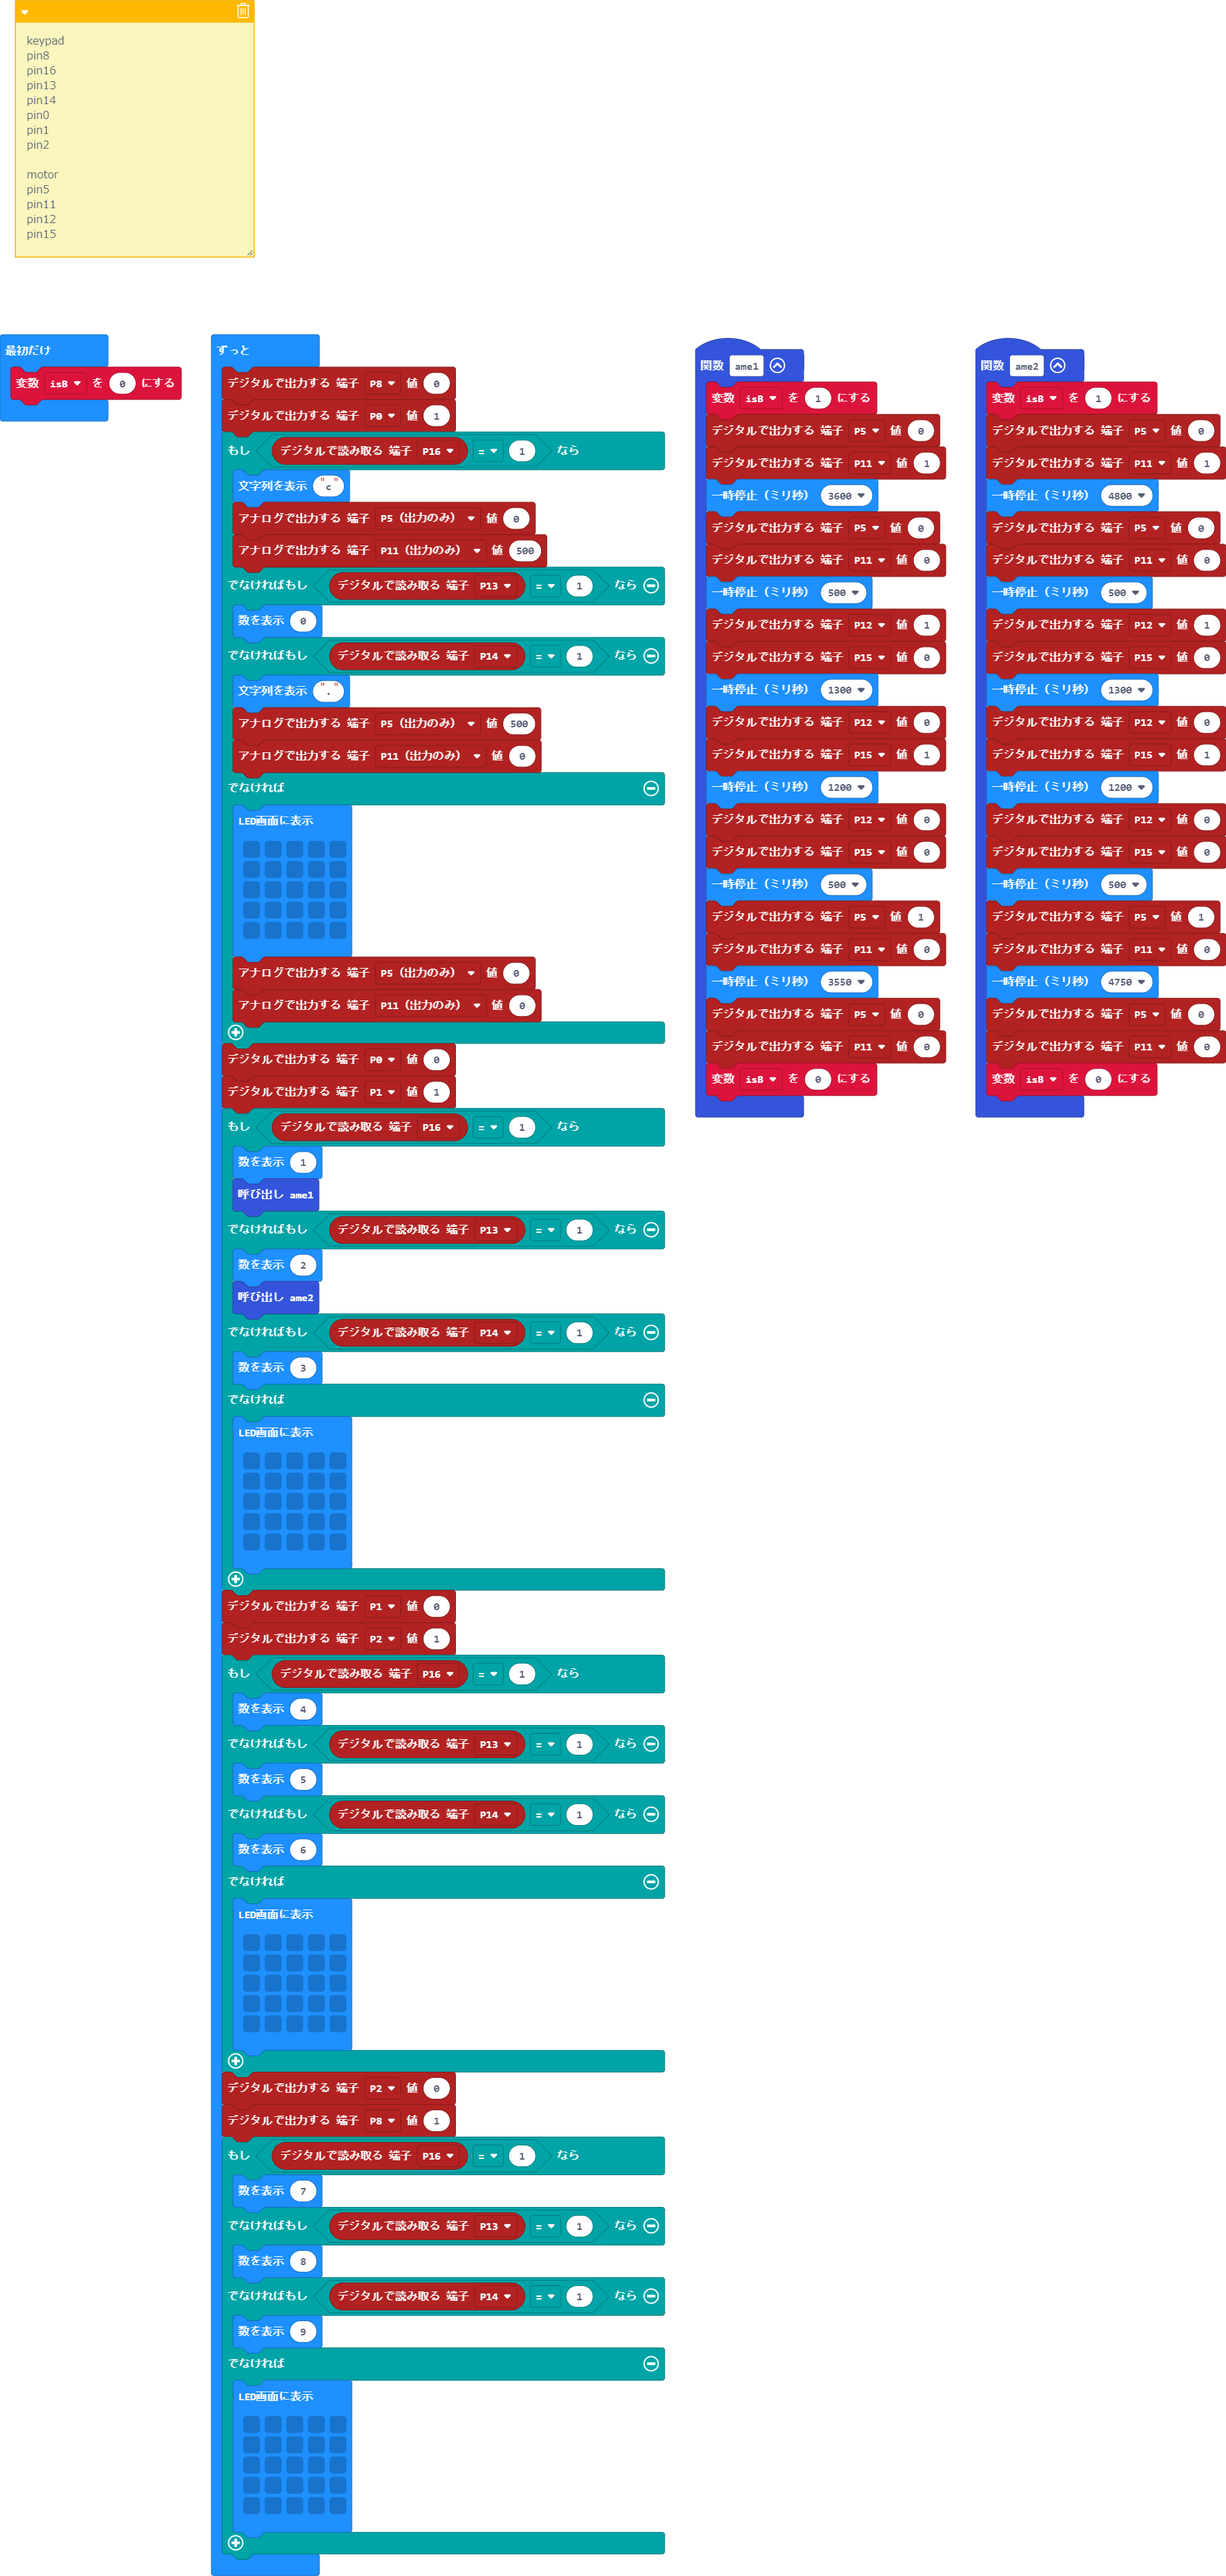
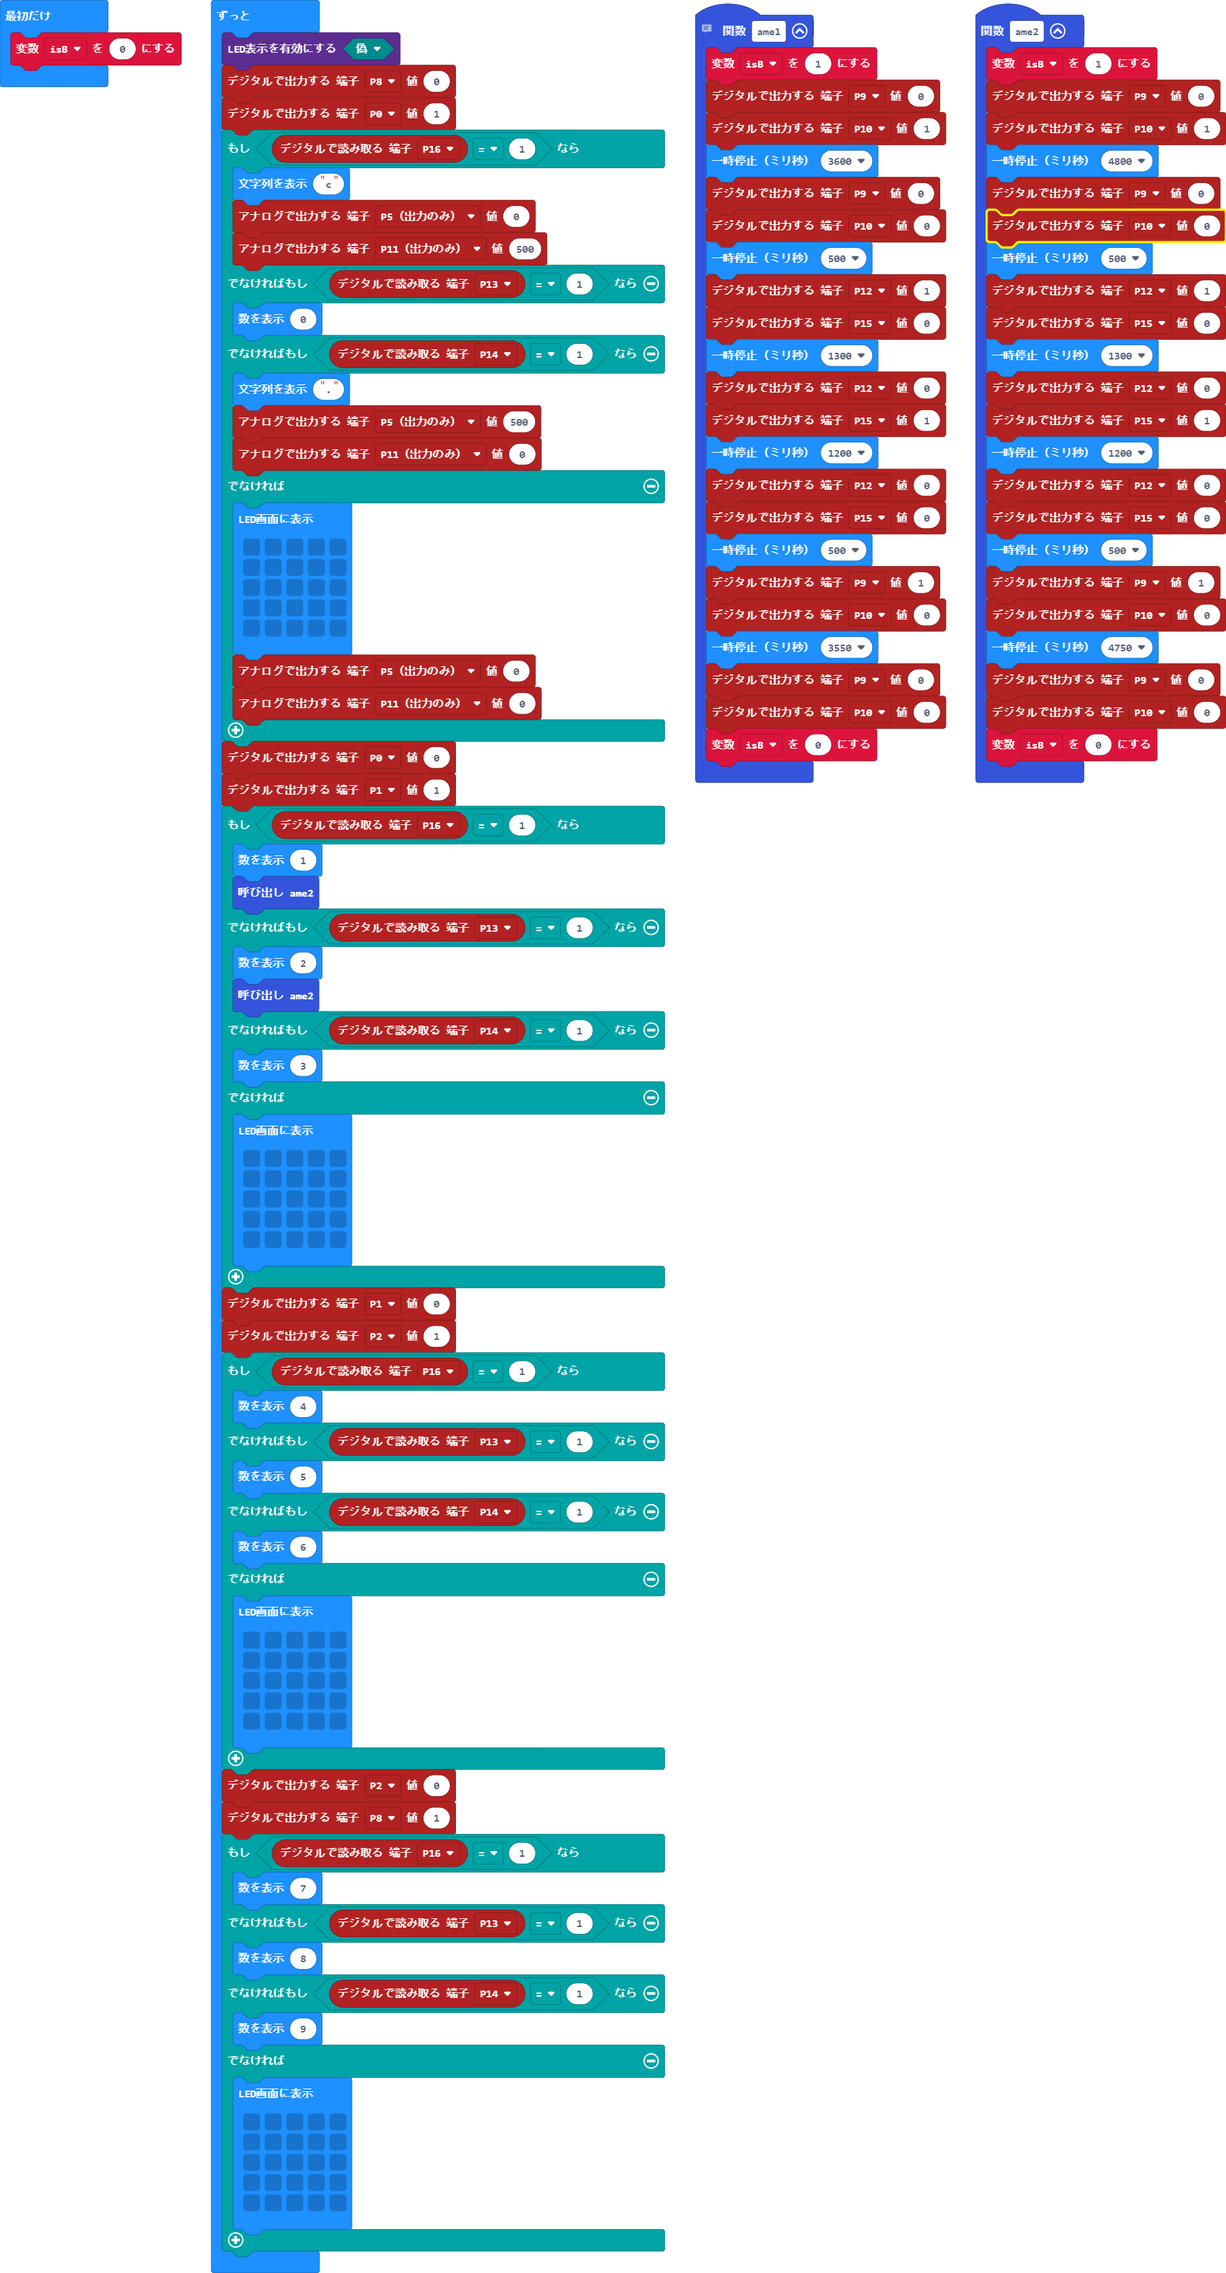
更新 main.blocks, main.ts, main.py

diff --git a/main.ts b/main.ts
@@ -1,37 +1,35 @@
-/**
- * keypad
- * 
- * pin8
- * 
- * pin16
- * 
- * pin13
- * 
- * pin14
- * 
- * pin0
- * 
- * pin1
- * 
- * pin2
- * 
- * motor
- * 
- * pin5
- * 
- * pin11
- * 
- * pin12
- * 
- * pin15
- */
+// keypad
+// 
+// pin8
+// 
+// pin16
+// 
+// pin13
+// 
+// pin14
+// 
+// pin0
+// 
+// pin1
+// 
+// pin2
+// 
+// motor
+// 
+// pin5
+// 
+// pin11
+// 
+// pin12
+// 
+// pin15
 function ame1 () {
     isB = 1
-    pins.digitalWritePin(DigitalPin.P5, 0)
-    pins.digitalWritePin(DigitalPin.P11, 1)
+    pins.digitalWritePin(DigitalPin.P9, 0)
+    pins.digitalWritePin(DigitalPin.P10, 1)
     basic.pause(3600)
-    pins.digitalWritePin(DigitalPin.P5, 0)
-    pins.digitalWritePin(DigitalPin.P11, 0)
+    pins.digitalWritePin(DigitalPin.P9, 0)
+    pins.digitalWritePin(DigitalPin.P10, 0)
     basic.pause(500)
     pins.digitalWritePin(DigitalPin.P12, 1)
     pins.digitalWritePin(DigitalPin.P15, 0)
@@ -42,20 +40,20 @@ function ame1 () {
     pins.digitalWritePin(DigitalPin.P12, 0)
     pins.digitalWritePin(DigitalPin.P15, 0)
     basic.pause(500)
-    pins.digitalWritePin(DigitalPin.P5, 1)
-    pins.digitalWritePin(DigitalPin.P11, 0)
+    pins.digitalWritePin(DigitalPin.P9, 1)
+    pins.digitalWritePin(DigitalPin.P10, 0)
     basic.pause(3550)
-    pins.digitalWritePin(DigitalPin.P5, 0)
-    pins.digitalWritePin(DigitalPin.P11, 0)
+    pins.digitalWritePin(DigitalPin.P9, 0)
+    pins.digitalWritePin(DigitalPin.P10, 0)
     isB = 0
 }
 function ame2 () {
     isB = 1
-    pins.digitalWritePin(DigitalPin.P5, 0)
-    pins.digitalWritePin(DigitalPin.P11, 1)
+    pins.digitalWritePin(DigitalPin.P9, 0)
+    pins.digitalWritePin(DigitalPin.P10, 1)
     basic.pause(4800)
-    pins.digitalWritePin(DigitalPin.P5, 0)
-    pins.digitalWritePin(DigitalPin.P11, 0)
+    pins.digitalWritePin(DigitalPin.P9, 0)
+    pins.digitalWritePin(DigitalPin.P10, 0)
     basic.pause(500)
     pins.digitalWritePin(DigitalPin.P12, 1)
     pins.digitalWritePin(DigitalPin.P15, 0)
@@ -66,16 +64,17 @@ function ame2 () {
     pins.digitalWritePin(DigitalPin.P12, 0)
     pins.digitalWritePin(DigitalPin.P15, 0)
     basic.pause(500)
-    pins.digitalWritePin(DigitalPin.P5, 1)
-    pins.digitalWritePin(DigitalPin.P11, 0)
+    pins.digitalWritePin(DigitalPin.P9, 1)
+    pins.digitalWritePin(DigitalPin.P10, 0)
     basic.pause(4750)
-    pins.digitalWritePin(DigitalPin.P5, 0)
-    pins.digitalWritePin(DigitalPin.P11, 0)
+    pins.digitalWritePin(DigitalPin.P9, 0)
+    pins.digitalWritePin(DigitalPin.P10, 0)
     isB = 0
 }
 let isB = 0
 isB = 0
 basic.forever(function () {
+    led.enable(false)
     pins.digitalWritePin(DigitalPin.P8, 0)
     pins.digitalWritePin(DigitalPin.P0, 1)
     if (pins.digitalReadPin(DigitalPin.P16) == 1) {
@@ -103,7 +102,7 @@ basic.forever(function () {
     pins.digitalWritePin(DigitalPin.P1, 1)
     if (pins.digitalReadPin(DigitalPin.P16) == 1) {
         basic.showNumber(1)
-        ame1()
+        ame2()
     } else if (pins.digitalReadPin(DigitalPin.P13) == 1) {
         basic.showNumber(2)
         ame2()

diff --git a/main.py b/main.py
@@ -1,51 +1,150 @@
-def on_button_pressed_a():
-    music.play_tone(262, music.beat(BeatFraction.WHOLE))
-    pins.digital_write_pin(DigitalPin.P7, 1)
-    pins.digital_write_pin(DigitalPin.P6, 0)
-    basic.pause(500)
-    pins.digital_write_pin(DigitalPin.P6, 0)
-    pins.digital_write_pin(DigitalPin.P7, 0)
-input.on_button_pressed(Button.A, on_button_pressed_a)
-
-def on_button_pressed_b():
+# keypad
+# 
+# pin8
+# 
+# pin16
+# 
+# pin13
+# 
+# pin14
+# 
+# pin0
+# 
+# pin1
+# 
+# pin2
+# 
+# motor
+# 
+# pin5
+# 
+# pin11
+# 
+# pin12
+# 
+# pin15
+def ame1():
     global isB
     isB = 1
-    pins.digital_write_pin(DigitalPin.P8, 0)
-    pins.digital_write_pin(DigitalPin.P9, 1)
-    basic.pause(4800)
-    pins.digital_write_pin(DigitalPin.P8, 0)
-    pins.digital_write_pin(DigitalPin.P9, 0)
+    pins.digital_write_pin(DigitalPin.P5, 0)
+    pins.digital_write_pin(DigitalPin.P11, 1)
+    basic.pause(3600)
+    pins.digital_write_pin(DigitalPin.P5, 0)
+    pins.digital_write_pin(DigitalPin.P11, 0)
     basic.pause(500)
-    pins.digital_write_pin(DigitalPin.P6, 1)
-    pins.digital_write_pin(DigitalPin.P7, 0)
+    pins.digital_write_pin(DigitalPin.P12, 1)
+    pins.digital_write_pin(DigitalPin.P15, 0)
+    basic.pause(1300)
+    pins.digital_write_pin(DigitalPin.P12, 0)
+    pins.digital_write_pin(DigitalPin.P15, 1)
+    basic.pause(1200)
+    pins.digital_write_pin(DigitalPin.P12, 0)
+    pins.digital_write_pin(DigitalPin.P15, 0)
     basic.pause(500)
-    pins.digital_write_pin(DigitalPin.P6, 0)
-    pins.digital_write_pin(DigitalPin.P7, 1)
-    basic.pause(500)
-    pins.digital_write_pin(DigitalPin.P6, 0)
-    pins.digital_write_pin(DigitalPin.P7, 0)
-    basic.pause(500)
-    pins.digital_write_pin(DigitalPin.P8, 1)
-    pins.digital_write_pin(DigitalPin.P9, 0)
-    basic.pause(4750)
-    pins.digital_write_pin(DigitalPin.P8, 0)
-    pins.digital_write_pin(DigitalPin.P9, 0)
+    pins.digital_write_pin(DigitalPin.P5, 1)
+    pins.digital_write_pin(DigitalPin.P11, 0)
+    basic.pause(3550)
+    pins.digital_write_pin(DigitalPin.P5, 0)
+    pins.digital_write_pin(DigitalPin.P11, 0)
     isB = 0
-input.on_button_pressed(Button.B, on_button_pressed_b)
-
+def ame2():
+    global isB
+    isB = 1
+    pins.digital_write_pin(DigitalPin.P5, 0)
+    pins.digital_write_pin(DigitalPin.P11, 1)
+    basic.pause(4800)
+    pins.digital_write_pin(DigitalPin.P5, 0)
+    pins.digital_write_pin(DigitalPin.P11, 0)
+    basic.pause(500)
+    pins.digital_write_pin(DigitalPin.P12, 1)
+    pins.digital_write_pin(DigitalPin.P15, 0)
+    basic.pause(1300)
+    pins.digital_write_pin(DigitalPin.P12, 0)
+    pins.digital_write_pin(DigitalPin.P15, 1)
+    basic.pause(1200)
+    pins.digital_write_pin(DigitalPin.P12, 0)
+    pins.digital_write_pin(DigitalPin.P15, 0)
+    basic.pause(500)
+    pins.digital_write_pin(DigitalPin.P5, 1)
+    pins.digital_write_pin(DigitalPin.P11, 0)
+    basic.pause(4750)
+    pins.digital_write_pin(DigitalPin.P5, 0)
+    pins.digital_write_pin(DigitalPin.P11, 0)
+    isB = 0
 isB = 0
-pins.set_pull(DigitalPin.P15, PinPullMode.PULL_DOWN)
-pins.set_pull(DigitalPin.P16, PinPullMode.PULL_DOWN)
 isB = 0
 
 def on_forever():
+    pins.digital_write_pin(DigitalPin.P8, 0)
+    pins.digital_write_pin(DigitalPin.P0, 1)
     if pins.digital_read_pin(DigitalPin.P16) == 1:
-        pins.analog_write_pin(AnalogPin.P8, 0)
-        pins.analog_write_pin(AnalogPin.P9, 500)
-    elif pins.digital_read_pin(DigitalPin.P15) == 1:
-        pins.analog_write_pin(AnalogPin.P8, 500)
-        pins.analog_write_pin(AnalogPin.P9, 0)
-    elif isB == 0:
-        pins.analog_write_pin(AnalogPin.P8, 0)
-        pins.analog_write_pin(AnalogPin.P9, 0)
+        basic.show_string("c")
+        pins.analog_write_pin(AnalogPin.P5, 0)
+        pins.analog_write_pin(AnalogPin.P11, 500)
+    elif pins.digital_read_pin(DigitalPin.P13) == 1:
+        basic.show_number(0)
+    elif pins.digital_read_pin(DigitalPin.P14) == 1:
+        basic.show_string(".")
+        pins.analog_write_pin(AnalogPin.P5, 500)
+        pins.analog_write_pin(AnalogPin.P11, 0)
+    else:
+        basic.show_leds("""
+            . . . . .
+                        . . . . .
+                        . . . . .
+                        . . . . .
+                        . . . . .
+        """)
+        pins.analog_write_pin(AnalogPin.P5, 0)
+        pins.analog_write_pin(AnalogPin.P11, 0)
+    pins.digital_write_pin(DigitalPin.P0, 0)
+    pins.digital_write_pin(DigitalPin.P1, 1)
+    if pins.digital_read_pin(DigitalPin.P16) == 1:
+        basic.show_number(1)
+        ame2()
+    elif pins.digital_read_pin(DigitalPin.P13) == 1:
+        basic.show_number(2)
+        ame2()
+    elif pins.digital_read_pin(DigitalPin.P14) == 1:
+        basic.show_number(3)
+    else:
+        basic.show_leds("""
+            . . . . .
+                        . . . . .
+                        . . . . .
+                        . . . . .
+                        . . . . .
+        """)
+    pins.digital_write_pin(DigitalPin.P1, 0)
+    pins.digital_write_pin(DigitalPin.P2, 1)
+    if pins.digital_read_pin(DigitalPin.P16) == 1:
+        basic.show_number(4)
+    elif pins.digital_read_pin(DigitalPin.P13) == 1:
+        basic.show_number(5)
+    elif pins.digital_read_pin(DigitalPin.P14) == 1:
+        basic.show_number(6)
+    else:
+        basic.show_leds("""
+            . . . . .
+                        . . . . .
+                        . . . . .
+                        . . . . .
+                        . . . . .
+        """)
+    pins.digital_write_pin(DigitalPin.P2, 0)
+    pins.digital_write_pin(DigitalPin.P8, 1)
+    if pins.digital_read_pin(DigitalPin.P16) == 1:
+        basic.show_number(7)
+    elif pins.digital_read_pin(DigitalPin.P13) == 1:
+        basic.show_number(8)
+    elif pins.digital_read_pin(DigitalPin.P14) == 1:
+        basic.show_number(9)
+    else:
+        basic.show_leds("""
+            . . . . .
+                        . . . . .
+                        . . . . .
+                        . . . . .
+                        . . . . .
+        """)
 basic.forever(on_forever)
